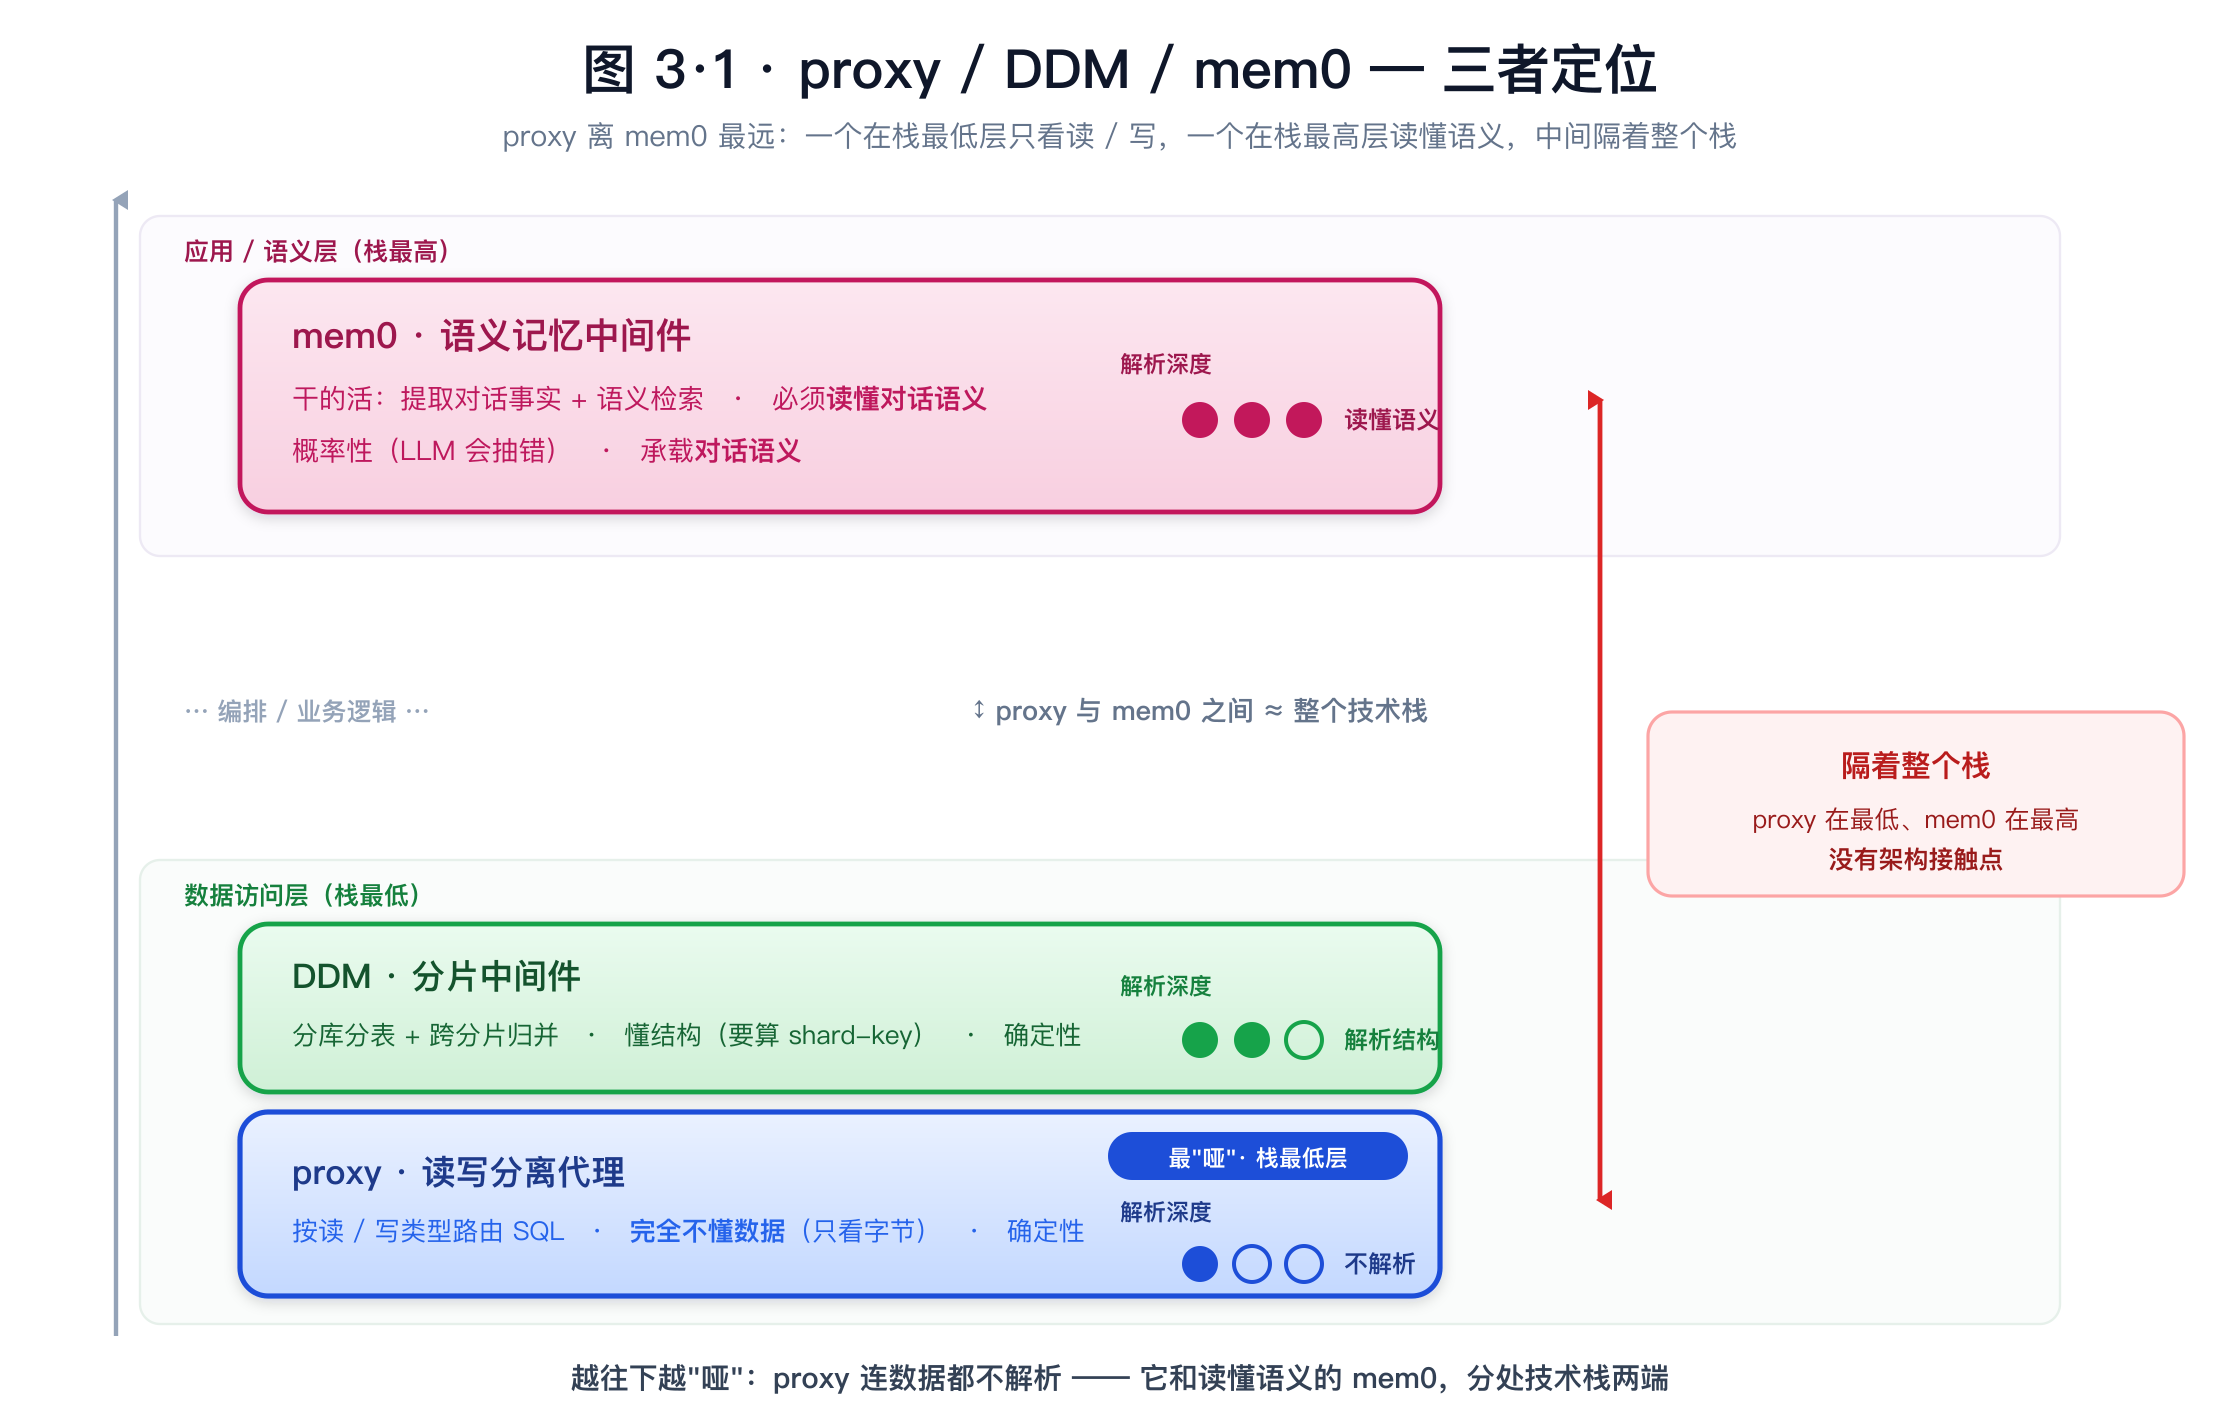
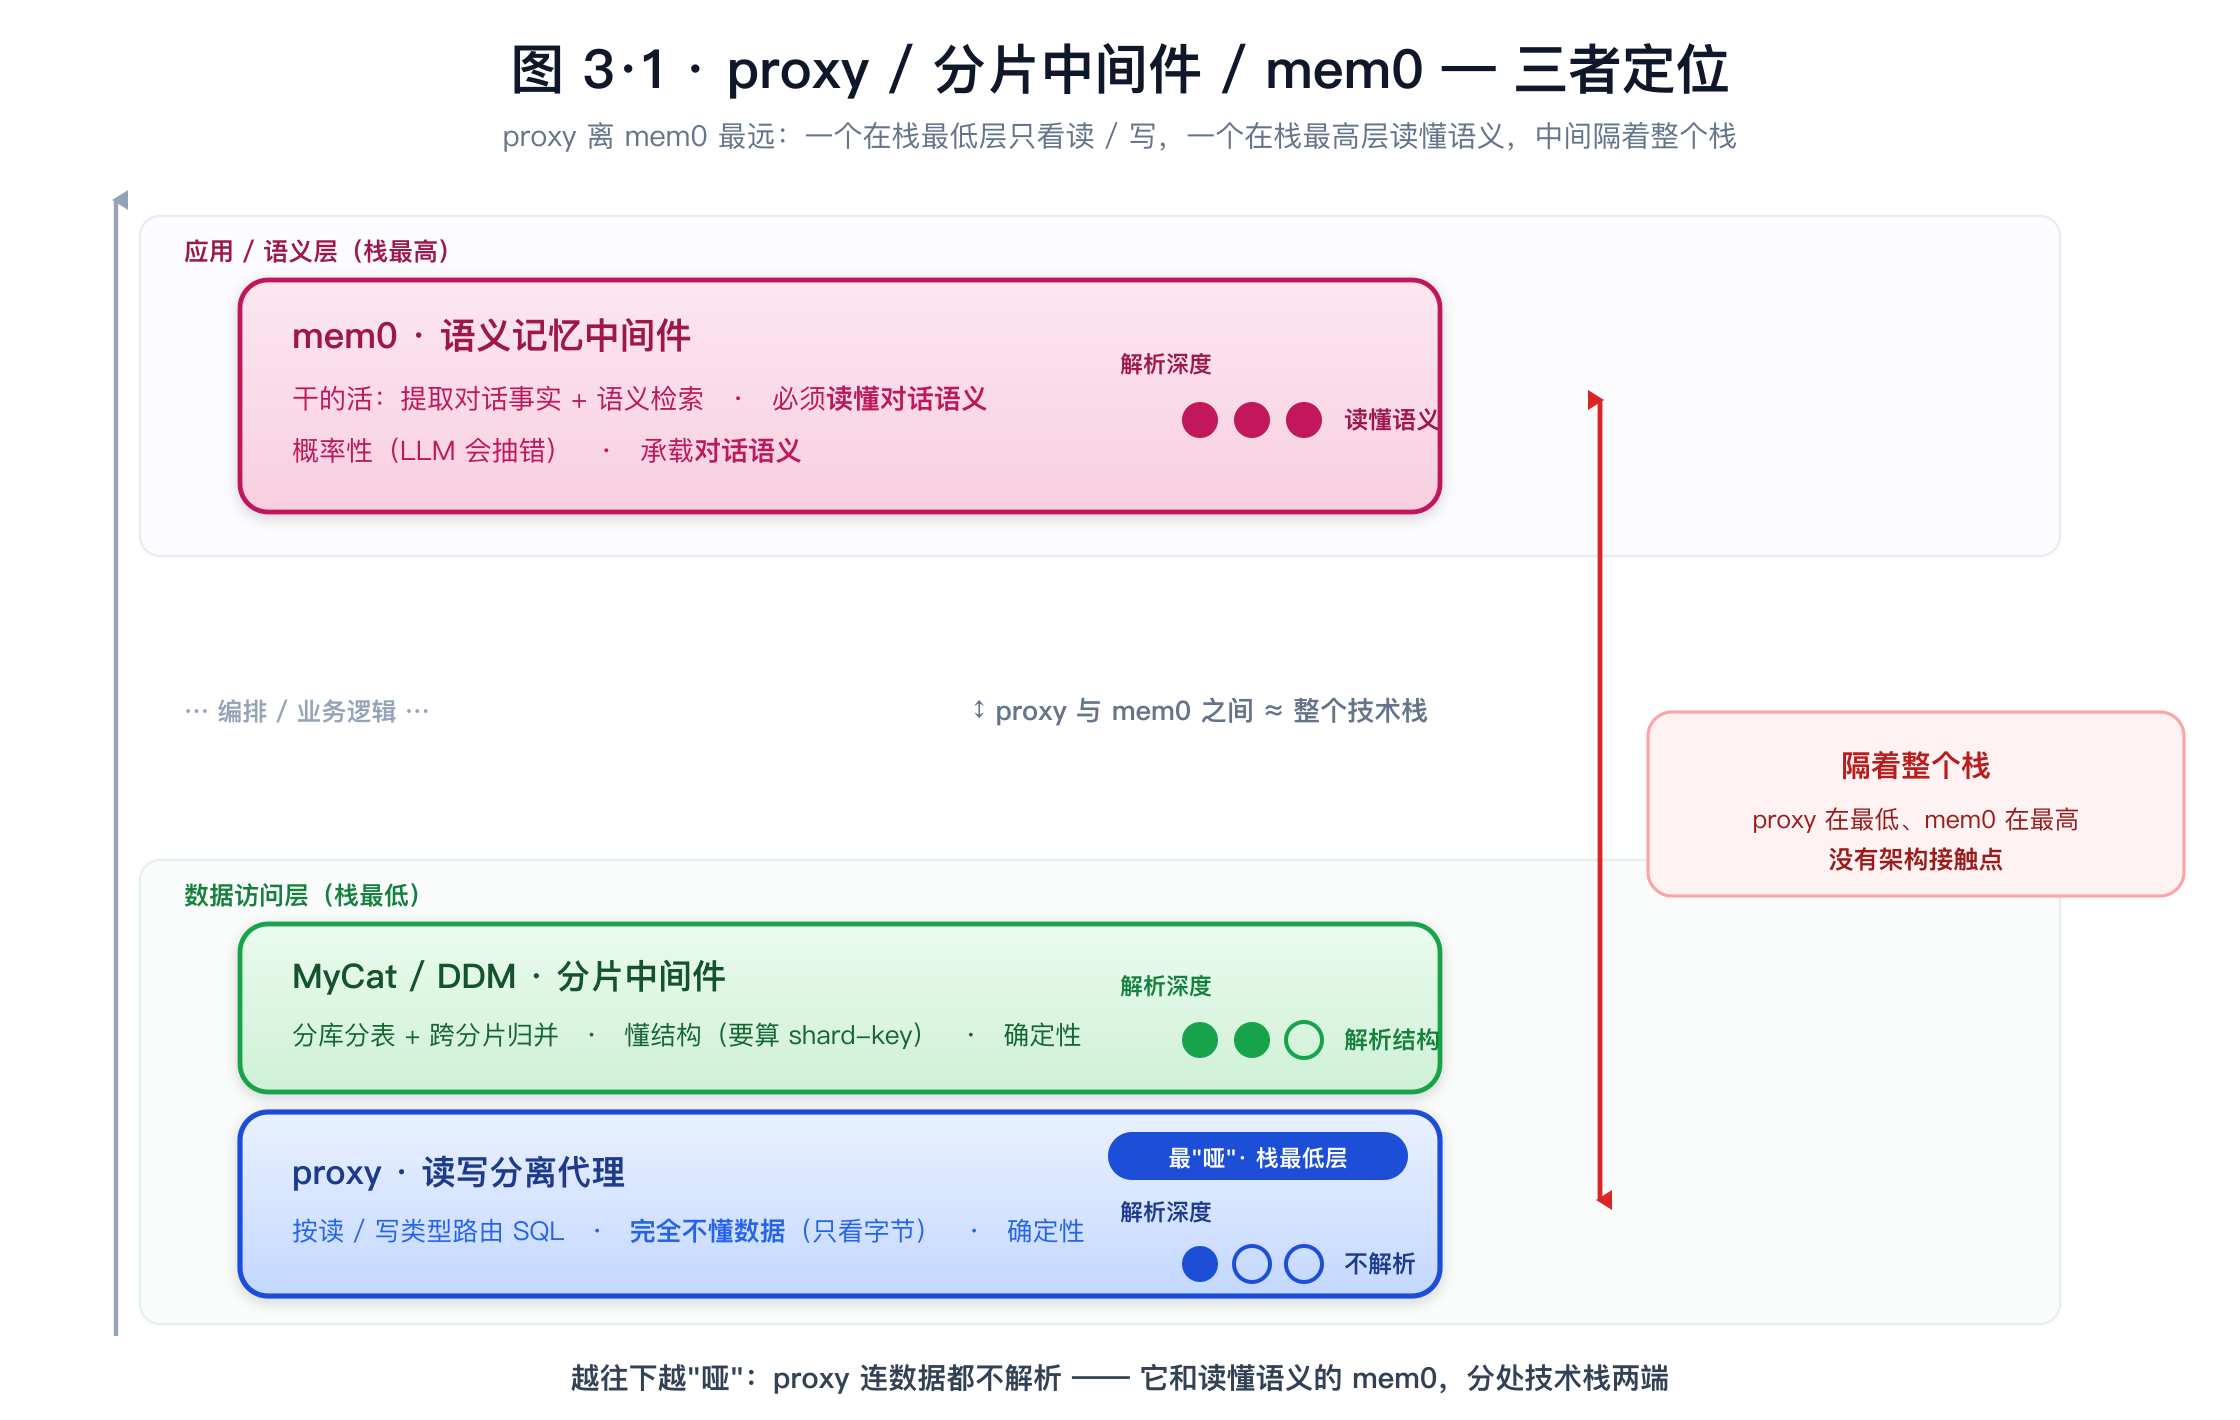
docs(mem0): 烁烁加 图3·7 演进路线图 + 修复重构后图文一致性
宪宪重构第三部分(a7e391dc：现状→演进→四角度判断)后的配图收口：

新增 图3·7 演进路线图(§3.6 capstone)：现状(MyCat残体) → ①演进MaxScale✅
→ ②扩协议(MySQL/PG✅·Oracle单独评·先过BSL) → ③集成mem0分叉：
嵌入对话mem0❌(通路错配/延迟灾难/运维恶化) vs 旁路SQL智能tee✅(但非mem0)。
一图说尽"现状→演进→集成"决策；放综判表与建议之间(分析→综合→行动)。

修复重构后烤进 PNG 的 stale 引用(markdown caption 改了、但图内 §号没改)：
- 图3·5 SVG：§3.3子命题B2→§3.2 · §3.5旁路异步→§3.3(节号随重构变了，必须改SVG重渲)
- 图3·1：DDM→"MyCat/DDM·分片中间件" + title→"分片中间件"(对齐现状=MyCat残体框架)

6张现存图落位已验证贴合新四角度结构。fig7 避开触发 Pango 崩溃的 ⚠/↗↘ emoji。

Changed region(s): [[0.2188, 0.031, 0.7812, 0.062], [0.125, 0.6817, 0.3125, 0.7127]]

diff --git a/feature-discussions/2026-06-20-mem0-deep-dive/mem0-complete-guide.md b/feature-discussions/2026-06-20-mem0-deep-dive/mem0-complete-guide.md
@@ -237,7 +237,7 @@ flowchart TB
 先把 proxy、分片中间件（MyCat / DDM）、mem0 三者的定位摆清楚：
 
 <p align="center">
-  <img src="./assets/proxy-fig1-positioning.png" alt="proxy / DDM / mem0 三者定位：proxy 在数据访问层最低、mem0 在应用语义层最高，隔着整个栈" width="100%">
+  <img src="./assets/proxy-fig1-positioning.png" alt="proxy / 分片中间件 / mem0 三者定位：proxy 在数据访问层最低、mem0 在应用语义层最高，隔着整个栈" width="100%">
 </p>
 <sub><b>图 3·1｜三者定位</b>——proxy 是最"哑"的 SQL 流量路由器（只看读 / 写，解析深度 ●○○），分片中间件 MyCat / DDM 懂分片结构（●●○），mem0 必须读懂对话语义（●●●）；proxy 在数据访问层最低、mem0 在应用 / 语义层最高，中间隔着整个栈，没有架构接触点。</sub>
 
@@ -352,6 +352,11 @@ flowchart TB
 | **方案复杂度** | 中（协议模块工程） | 高（双链路改造仍绕回 B1） | 低（tee 旁路原生支持） |
 | **公有云商业** | ✅ 正道（注意 BSL 许可证） | ⚠ 只剩运营捆绑 + 入口错配 | ✅ 增值清晰 |
 | **运维** | 可控 | ❌ 故障域 / SLA / 安全全面恶化 | ✅ 故障隔离 |
+
+<p align="center">
+  <img src="./assets/proxy-fig7-evolution-roadmap.png" alt="演进路线图：现状 MyCat 残体 → MaxScale 演进 → 扩协议 → 集成 mem0 分叉（嵌入不可行/旁路可行）" width="100%">
+</p>
+<sub><b>图 3·7｜演进路线图：每一步一个判断</b>——现状 proxy（MyCat 残体：阉割分片 / 仅 MySQL / 封闭）→ ① 演进 MaxScale 可插拔 ✅ → ② 扩多协议（MySQL / PG ✅，Oracle 单独评估，先过 BSL 许可证）✅ → ③ 到「集成 mem0」才分叉：嵌入对话 mem0 进 SQL 转发关键路径 ❌（通路错配 / 延迟灾难 / 运维恶化）vs 旁路 SQL 智能（tee）✅（但那是 DB-ops AI，不是 mem0）。横向把数据访问做宽是正道，纵向把对话记忆塞进通路是错配。</sub>
 
 **建议**：
 - ✅ **做**：proxy 沿 MaxScale 模式演进成**多协议数据访问平台**（先 MySQL + PG，Oracle 单独评估；"用代码 vs 借鉴自研"先过许可证）。
